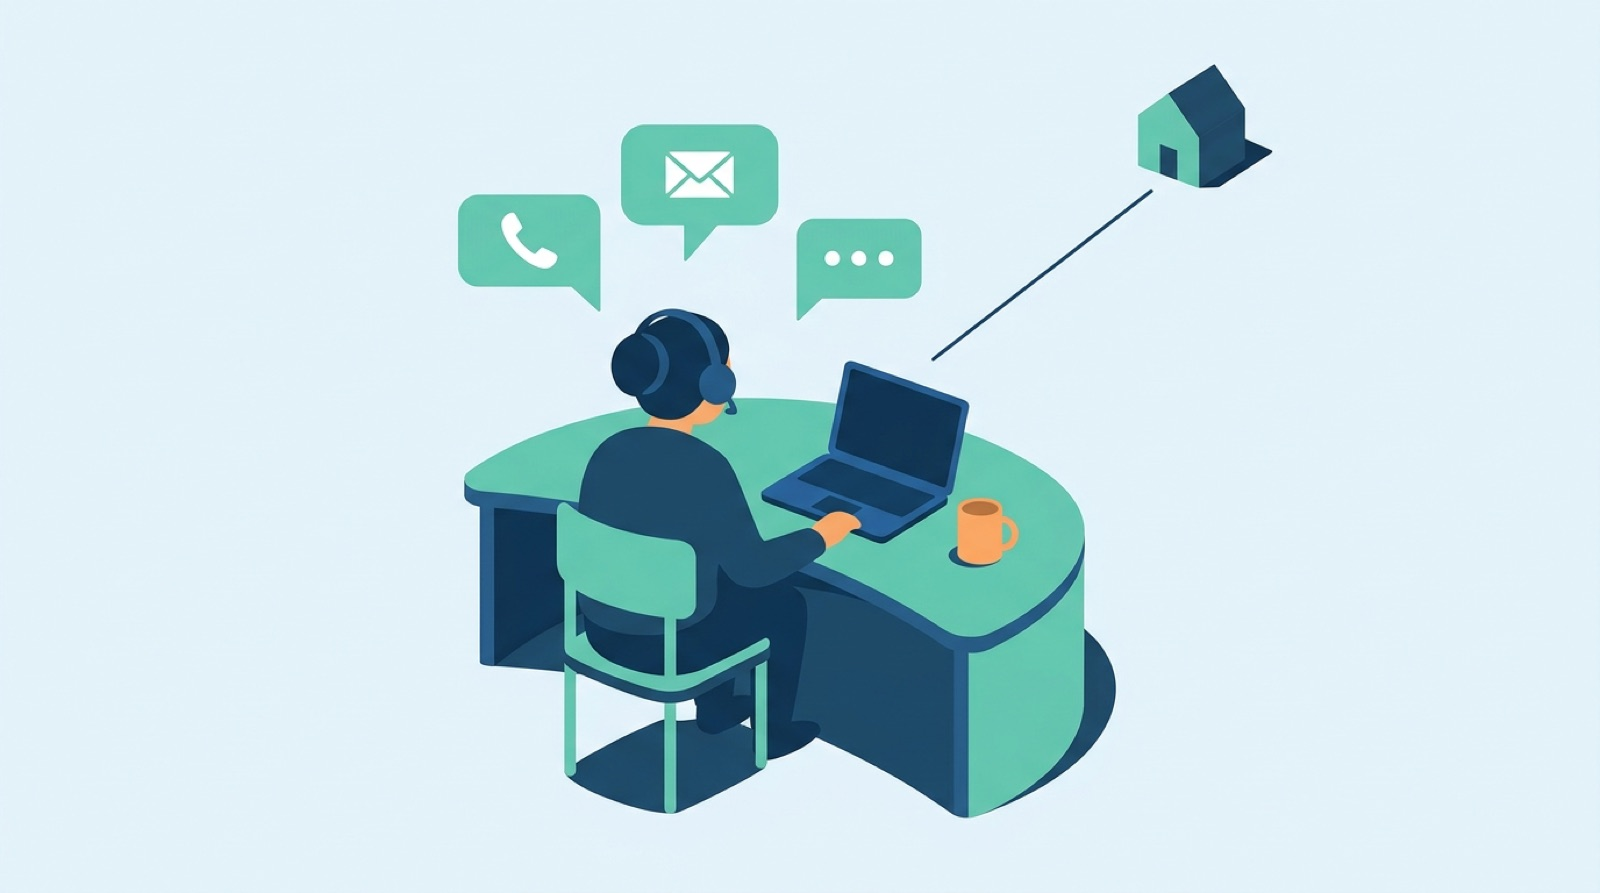
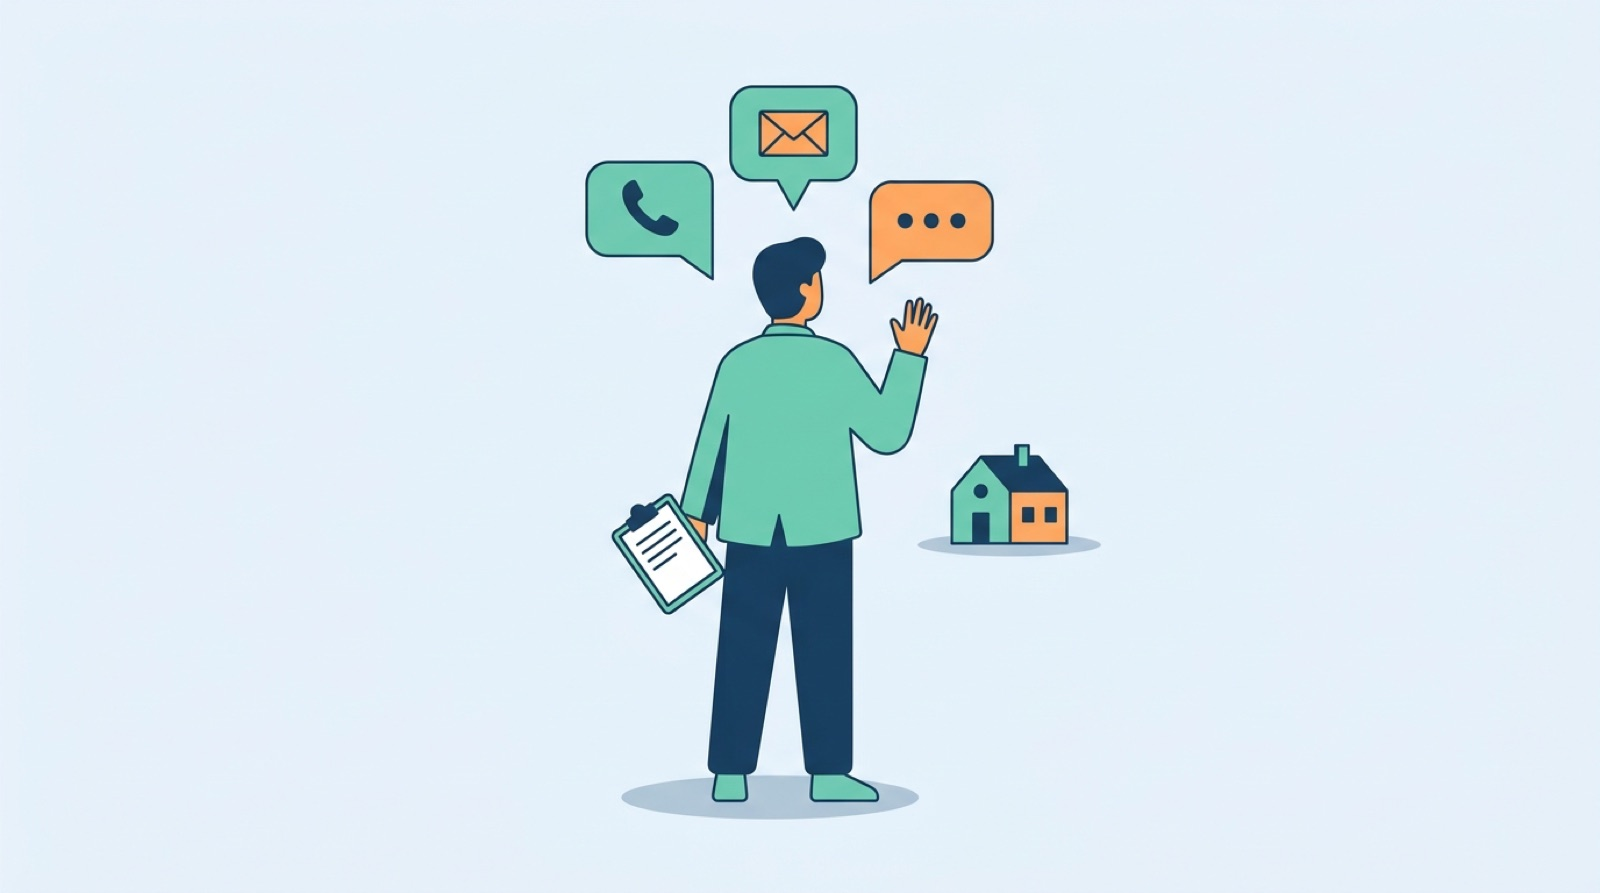
Kritikrunda 3: flödet 7/10, startsidan 6/10, tre småfixar
Steg 2 har "Tillbaka till bostaden" i stället för en länk ut ur flödet,
starttidslänken har pil och understrykning så den läses som en länk, och
bild 3 i Så går det till är en koordinator som vinkar utan headset (den
förra visade en telefonkö under rubriken "inte en telefonkö").
Rapporten i docs/kritik/2026-09-02-runda-3.md.

Claude-Session: https://claude.ai/code/session_01LHB1DUqwh6YLxSKToNNmTk

diff --git a/app/(withHeader)/[locale]/demo/movehelp/_components/DemoMovehelpFlow.tsx b/app/(withHeader)/[locale]/demo/movehelp/_components/DemoMovehelpFlow.tsx
@@ -172,7 +172,7 @@ const DemoMovehelpFlow = () => {
         title={HERO_TITLE[step]}
         copy={HERO_COPY[step]}
         tone={step === 2 ? 'green' : 'blue'}
-        back={step === 2 ? undefined : { label: 'Tillbaka till flyttsidan', onClick: backToMovepage }}
+        back={step === 2 ? undefined : step === 1 ? { label: 'Tillbaka till bostaden', onClick: () => setStep(0) } : { label: 'Tillbaka till flyttsidan', onClick: backToMovepage }}
       >
         {/* Beviset står där beslutet att fortsätta tas. Siffrorna är brandguidens (Bevisen). */}
         {step === 0 && (
@@ -344,9 +344,10 @@ const DemoMovehelpFlow = () => {
                       <button
                         type="button"
                         onClick={() => setStartOpen(true)}
-                        className={clsx('min-h-11 -my-1 text-[13px] font-semibold text-[#214766] underline-offset-4 hover:underline rounded-sm', press)}
+                        className={clsx('min-h-11 -my-1 inline-flex items-center gap-1 text-[13px] font-semibold text-[#214766] underline underline-offset-4 decoration-[#214766]/40 hover:decoration-[#214766] rounded-sm', press)}
                       >
                         Behöver du en viss starttid?
+                        <Chevron size={16} />
                       </button>
                     ) : (
                       <Field label="Starttid">

diff --git a/docs/kritik/2026-09-02-runda-3.md b/docs/kritik/2026-09-02-runda-3.md
@@ -1,0 +1,24 @@
+# Designkritik · runda 3 · 2026-09-02 (efter designsystem, en kolumn, illustrationer)
+
+Kritiker i färsk kontext enligt `DESIGN-KRITIK.md`, skärmdumpar av live.
+
+| Yta | Runda 1 | Runda 2 | Runda 3 |
+|---|---|---|---|
+| Startsidan | 6/10 | 6/10 | 6/10 |
+| Flytthjälpsflödet | 6/10 | 6/10 | 7/10 |
+
+## Startsidan 6/10
+Rätt struktur, äkta siffror och namngivna koordinatorer, men sidan följer SaaS-mallen punkt för punkt (accentord i rubriken, mockup, logotypmarquee, tre kort, karusell, live-ticker, FAQ) och hade två layoutfel: omdömesrubriken bröts ord för ord på mobil (rättad samma dag: navigeringen står under rubriken, pilar med räknare i stället för 27 prickar) och omdömena såg urtonade ut på desktop (karusellens övergång fångad i skärmdumpen, inte ett fel för användaren).
+
+Största gapen kvar, i kritikerns ordning: telefonramen i heron tar 600 px på mobil (ägaren valde heron); "Vi rekommenderar. Du väljer." + "fler alternativ ett klick bort" (brandregel 1); två tidslöften ("Klar på 10 minuter" mot "2 min"); "Slipp stressen" säger inte vad hon slipper; kvinnan i mockupens "Personlig kontakt" är inte Nina; "Just nu"-feeden (ägaren behåller); logotypbandet med dubbletter och vita boxar; BankID nämns fyra gånger, Ansvaret tre gånger. Bild 3 i Så går det till visade en headset-agent under "inte en telefonkö", bytt samma dag mot en koordinator som vinkar, utan headset.
+
+Ta bort-lista: mikroraden "Logga in med BankID." i heron, orangea "vi fixar", glöden bakom telefonen, "SOM SETT I" på mobil, "Vi bokar inte bara åt dig" i bevisblocket, bocken "Vi tar ansvaret", koordinatorernas stycke 2 och etiketten "Flyttkoordinator" tre gånger, uttonade femte raden i Just nu, eyebrow "SUPPORT", FAQ-frågan om kostnad, slut-CTA:ns mikrorad och knappskugga, placeholder-adresserna i mockupen.
+
+## Flytthjälpsflödet 7/10
+Strukturen är rätt: tre tydliga steg, rekommenderade förval, hjälptext i klarspråk och en väntesida med en namngiven människa och en konkret tid. Det som drar ner: steg 2 är fortfarande långt (städblocket nästlat i två nivåer), sju tooltips ersätter tydliga etiketter, tryckytor under 44 px, tre knappar på väntesidan.
+
+Största gapen: (1) städdetaljerna som en flervalsrad "Något av detta?" och tilläggen som chip-rad; (2) en fylld knapp på väntesidan, "Starta elavtalet" i stickyn; (3) starttidslänken såg ut som lös text (rättad samma dag: pil och understrykning); (4) steg 1-folden visar bara Bostadstyp; (5) (i)-ikonerna (ägaren vill ha dem); (6) chips 40 px, nästlade Nej/Ja 35 px, toggles 24 px; (7) Packhjälp och Flyttstädning förvalda på utan kostnadssignal, "bästa pris" utan siffra; (8) "2 min" på båda stegen, "Fortsätt till sista steget" under "Steg 1 av 3"; (9) ingen väg tillbaka till Bostaden från steg 2 (rättad samma dag: "Tillbaka till bostaden"); (10) Boarea/Våning på olika baslinjer, Våning som native select.
+
+AI-tecken kritikern pekar på: Ninas bubbla i jagform sekunden efter inskicket ("Nina är din koordinator och räknar på flytten. Hon hör av sig senast nästa vardag före lunch." föreslås), undertexten "Hur mycket ska flyttas" som lovar en fråga som inte finns, "Flexibel, ge mig bästa pris" i kundens röst.
+
+Det som håller: väntesidan, förvalen, hjälptexterna, progress-systemet, villkorslogiken.
